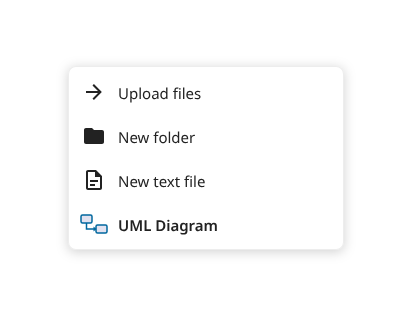
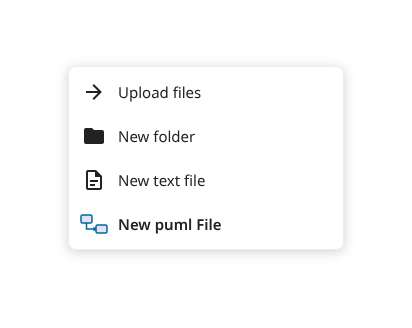
Files: the + New entry reads New puml File

diff --git a/tests/js/files.test.js b/tests/js/files.test.js
@@ -2,7 +2,7 @@
 // SPDX-FileCopyrightText: 2026 kubed-io
 // SPDX-License-Identifier: AGPL-3.0-or-later
 //
-// "Edit diagram" and + New → UML Diagram, driven through what files.js registers,
+// "Edit diagram" and + New → New puml File, driven through what files.js registers,
 // with the Nextcloud libraries mocked at the module boundary. jsdom fetches no
 // scripts, so each test plays the browser: it fires `load` or `error` on the tag.
 import { afterEach, beforeEach, describe, expect, it, vi } from 'vitest'
@@ -149,7 +149,7 @@ describe('Edit diagram', () => {
   })
 })
 
-describe('+ New → UML Diagram', () => {
+describe('+ New → New puml File', () => {
   const createUrl = /\/ocs\/v2\.php\/apps\/files\/api\/v1\/templates\/create$/
   const newDiagram = (path) => newEntries.find((e) => e.id === 'plantuml-new').handler({ path }, [])
 
@@ -161,6 +161,10 @@ describe('+ New → UML Diagram', () => {
 
   afterEach(() => {
     delete window.OC
+  })
+
+  it('is labelled "New puml File"', () => {
+    expect(newEntries.find((e) => e.id === 'plantuml-new').displayName).toBe('New puml File')
   })
 
   it('asks the server to create the file, and writes no content itself', async () => {

diff --git a/src/files.js b/src/files.js
@@ -7,7 +7,7 @@
  *  - the Viewer handler for text/x-plantuml, which makes a plain click open the
  *    diagram in Nextcloud's image lightbox (the menu's "View", named by Nextcloud);
  *  - "Edit diagram" and "Open with text editor", for one diagram at a time;
- *  - "UML Diagram" in the + New menu, which asks Files' create endpoint for
+ *  - "New puml File" in the + New menu, which asks Files' create endpoint for
  *    "New diagram.puml" and opens the editor on it. The server writes the
  *    starting lines (lib/Listener/NewDiagramListener.php), so every client gets
  *    the same file; naming it is Nextcloud's own rename.
@@ -70,7 +70,7 @@ registerFileAction({
 
 addNewFileMenuEntry({
   id: 'plantuml-new',
-  displayName: t(APP_ID, 'UML Diagram'),
+  displayName: t(APP_ID, 'New puml File'),
   category: NewMenuEntryCategory.CreateNew,
   iconSvgInline: plantumlIcon,
   async handler(context, content) {

diff --git a/docs/superpowers/specs/2026-10-13-nextcloud-plantuml-design.md b/docs/superpowers/specs/2026-10-13-nextcloud-plantuml-design.md
@@ -227,7 +227,7 @@ P1–P6).
 
 | Unit | Does |
 |---|---|
-| `files.js`, `files-helpers.js` | Registers the Viewer handler for `text/x-plantuml` (queued on `window._oca_viewer_handlers` when the Viewer loads later), which makes a plain click open the diagram in Nextcloud's standard image lightbox. Registers two file actions for one diagram in the user's files (not a multi-selection, not the trash): **Edit diagram** (order 1, after the Viewer's View), shown only when `server_configured`; and **Open with text editor** (order 2), `OCA.Viewer.openWith('text', { path })`, shown whenever the Viewer is there. Registers **UML Diagram** in the **+ New** menu, with or without a server: asks Files' create endpoint (fact 10) for `New diagram.puml` (made unique among the folder's names) in the current folder, which `NewDiagramListener` fills; stats it over WebDAV, emits `files:node:created` and opens the editor on it. A failure is logged and shown as "Could not create the diagram". Opening the editor first adds the editor bundle, once, with the Files bundle's `?v=` and `&h=<the editor build's hash>`; a load that fails is forgotten so the next open retries, and that open falls back to the Viewer. |
+| `files.js`, `files-helpers.js` | Registers the Viewer handler for `text/x-plantuml` (queued on `window._oca_viewer_handlers` when the Viewer loads later), which makes a plain click open the diagram in Nextcloud's standard image lightbox. Registers two file actions for one diagram in the user's files (not a multi-selection, not the trash): **Edit diagram** (order 1, after the Viewer's View), shown only when `server_configured`; and **Open with text editor** (order 2), `OCA.Viewer.openWith('text', { path })`, shown whenever the Viewer is there. Registers **New puml File** in the **+ New** menu, with or without a server: asks Files' create endpoint (fact 10) for `New diagram.puml` (made unique among the folder's names) in the current folder, which `NewDiagramListener` fills; stats it over WebDAV, emits `files:node:created` and opens the editor on it. A failure is logged and shown as "Could not create the diagram". Opening the editor first adds the editor bundle, once, with the Files bundle's `?v=` and `&h=<the editor build's hash>`; a load that fails is forgotten so the next open retries, and that open falls back to the Viewer. |
 | `viewer-component.js` | The Viewer component (Vue 2 `render(h)`, as Viewer stable34 mounts it): an `<img>` on `GET /render?path=…` inside a `<div>` (the Viewer's mixin would swap an erroring root for its generic error page). When the image fails it asks the URL once more and shows, in white on the Viewer's black, the route's `problem` or, for any other failure, the fixed line **Could not draw the diagram** (#32). A diagram mistake is an image, so it shows PlantUML's error drawing. **Agreed (viewer round):** the `<img>` gives way to VW1–VW8: inline sheets, the toolbar, Tabs, Stack and Wall, Export and Edit. |
 | `editor.js`, `editor/` | The **Edit diagram** overlay, specified in `2026-10-14-editor-design.md`. What it asks of the rest: the file over WebDAV (`editor/save.js`: GET with `Cache-Control: no-cache` (fact 11, E4), PUT with `If-Match` (S1), a copy with `If-None-Match: *` (S8), a Depth-0 `getetag` PROPFIND to watch for changes (E1)); the diagram from `POST /render`, 300 ms after typing stops and one request at a time (`editor/preview.js`, D3; an empty source is not sent), the problem line in its place when the server cannot (D4); the server's lists from `/themes`, `/icons`, `/emoji`, once per page (C8). Loaded on first use (O2). The answer is drawn **inline** as sanitised SVG, not an `<img>`, so its links work (`editor/inline-svg.js`, editor spec D1, #30). |
 | `readme.js`, `readme/markdown.js`, `readme/workspace.js` | The README observer, loaded on Files pages. A `MutationObserver` on the page wakes when Text draws a `.ProseMirror` inside `#rich-workspace` holding code blocks or image figures not yet looked at. It asks Text's own `GET ocs/v2.php/apps/text/workspace?path=<dir>` which file the workspace shows (kept while the folder stays the same), reads it over WebDAV, and scans it for fences (backtick or tilde, CommonMark's closing rule) and relative images. Each `.code-block` is matched to the fence at the same index, and drawn only when that fence is `plantuml` and the block's text equals its source; its children are hidden and an `<img>` of `POST /render`'s answer (a `blob:` URL; renders cached by source, 64 of them, failures not kept) is added, the hidden source made non-editable and kept so if Text resets it. Each image figure whose `data-src` ends in `.puml` is hidden and our own `<figure>` goes after it: an `<img>` on `GET /render?path=…`, the path resolved against the README's folder as Text's `AttachmentResolver` does, with the Markdown alt text as its caption. Text's elements are hidden, never removed. Both drawings swallow the click, so Text's lightbox does not reopen them as a broken `.puml`. A fence the server cannot draw keeps Text's code block. **Several diagrams (agreed, round 4):** an image's `#fragment` names the diagram (`Screens.puml#login`, `Screens.puml#2`) and goes to `GET /render` as `&diagram=`, URL-decoded; the path before the `#` is what must end in `.puml`. When Text's figure has dropped the fragment from `data-src`, it is read from the README's own Markdown, matching images to figures in order. A fence draws each of its diagrams in turn, one `POST /render` per index, since the README shows its source and every block in it is the author's. |

diff --git a/docs/design/README.md b/docs/design/README.md
@@ -33,7 +33,7 @@ board. The spec's "The design" section says what each board shows and what the p
 | Style guide | the doc card: anatomy, hover and pinned, its timing and keys | [style-guide-doc-card.png](style-guide-doc-card.png) |
 | Files | the Diagrams folder | [files.png](files.png) |
 | Files | the Viewer on a diagram | [viewer.png](viewer.png) |
-| Files | the + New menu, with UML Diagram | [new-menu.png](new-menu.png) |
+| Files | the + New menu, with New puml File | [new-menu.png](new-menu.png) |
 | Files | the context menu on a .puml | [context-menu.png](context-menu.png) |
 | Readme | the README rendered above the list | [readme.png](readme.png) |
 | Readme | the README's source | [readme-source.png](readme-source.png) |

diff --git a/features/AGENTS.md b/features/AGENTS.md
@@ -311,7 +311,7 @@ whitespace only, because object storage writes a new empty file as one space.
 The step asks that endpoint, as the + New entry does, for `New diagram.puml` in
 the folder.
 
-Choosing **UML Diagram** creates `New diagram.puml` (`New diagram (1).puml` when that
+Choosing **New puml File** creates `New diagram.puml` (`New diagram (1).puml` when that
 is taken) and opens the editor on it, because nobody creates a diagram in order
 not to edit it; the name is given with Nextcloud's own rename.
 It needs no server: a `.puml` is plain text, and the editor says what is wrong.

diff --git a/README.md b/README.md
@@ -52,7 +52,7 @@ A file with several diagrams gets a tab for each: the picture follows your curso
 
 Prefer plain text? **Open with text editor** gives you Nextcloud's own editor on the source, as it would for any text file.
 
-**+ New → UML Diagram** starts one, already holding `@startuml` and `@enduml`, and opens the editor on it.
+**+ New → New puml File** starts one, already holding `@startuml` and `@enduml`, and opens the editor on it.
 
 ✍ [`diagrams/edit.feature`](features/diagrams/edit.feature) · ➕ [`diagrams/create.feature`](features/diagrams/create.feature)
 
